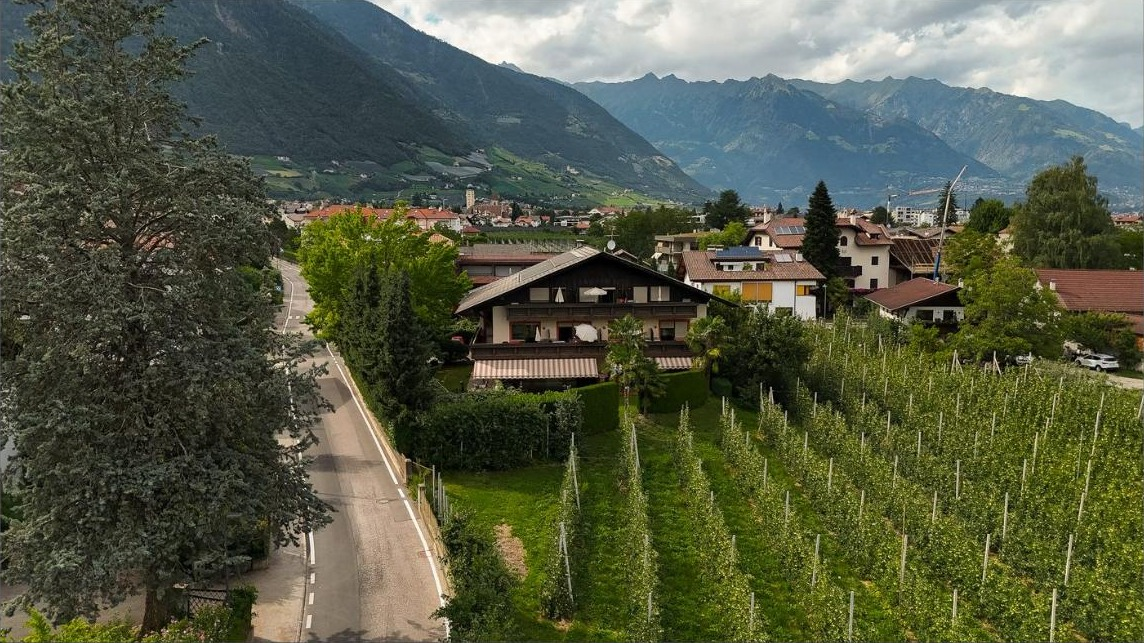
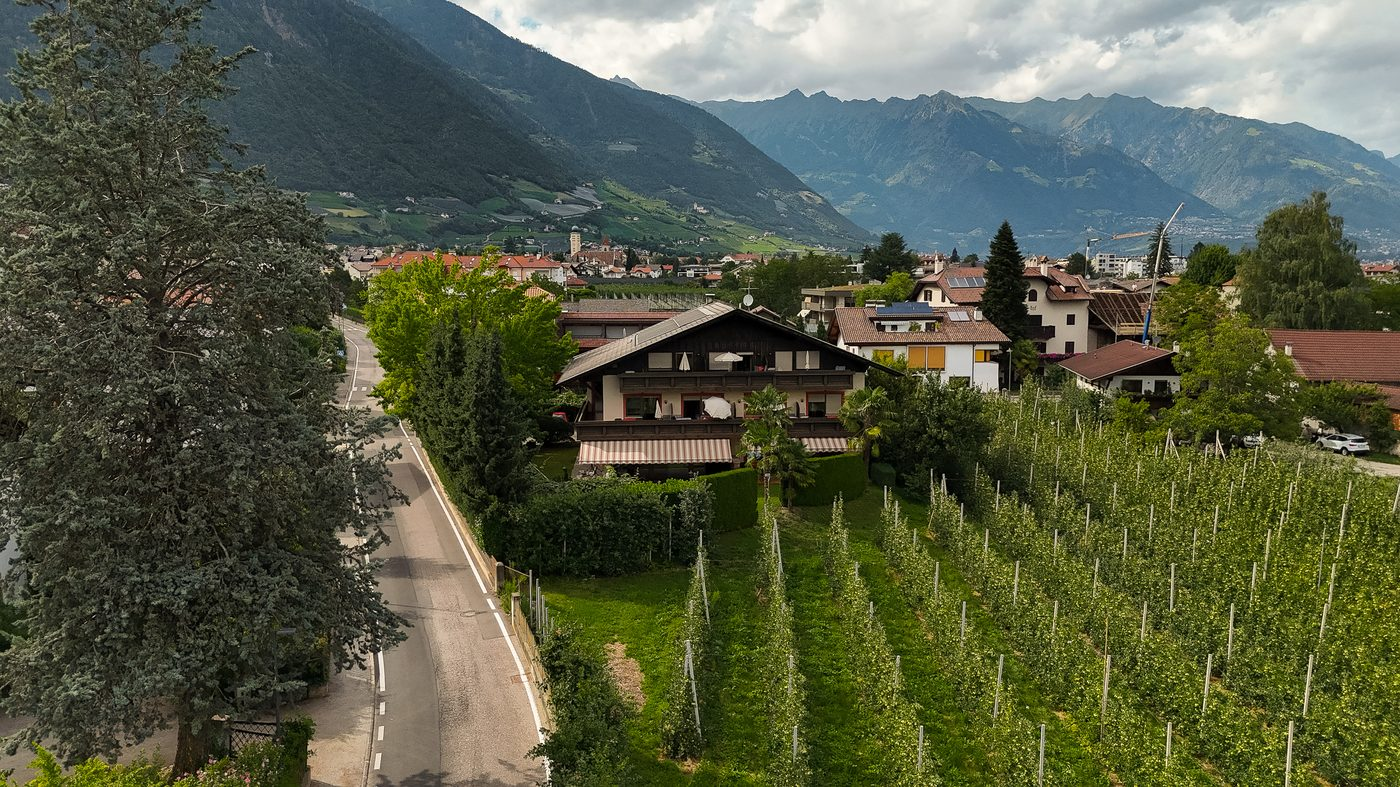
Preisrechner und aktuelle Bilder von main nachziehen
- Live-Preisvorschau im Buchungsformular (Saisonpreise 2026,
  Mindestaufenthalts-Warnung) war auf diesem Branch nie eingebaut -
  jetzt aus main uebernommen (js/main.js, buchungsanfrage.html, CSS)
- Aktuelle Bildversionen von main uebernommen: bearbeitetes
  Hero-Foto (Kran/Baustelle entfernt) sowie neu komprimierte
  pool/hiking/suedtirol/wine-Bilder

diff --git a/js/main.js b/js/main.js
@@ -42,6 +42,82 @@ revealEls.forEach(function (el) { el.classList.add("in-view"); });
 }
 }
 
+// Season price list 2026 (must stay in sync with the table on
+// buchungsanfrage.html). Prices are per apartment, per night.
+var PRICE_SEASONS = [
+{ start: "2026-02-21", end: "2026-03-27", era: 67, zra: 77 },
+{ start: "2026-03-28", end: "2026-04-10", era: 84, zra: 94 },
+{ start: "2026-04-11", end: "2026-04-30", era: 78, zra: 88 },
+{ start: "2026-05-01", end: "2026-05-22", era: 83, zra: 93 },
+{ start: "2026-05-23", end: "2026-06-05", era: 96, zra: 106 },
+{ start: "2026-06-06", end: "2026-07-10", era: 94, zra: 104 },
+{ start: "2026-07-11", end: "2026-08-21", era: 99, zra: 114 },
+{ start: "2026-08-22", end: "2026-09-11", era: 99, zra: 114 },
+{ start: "2026-09-12", end: "2026-10-02", era: 96, zra: 106 },
+{ start: "2026-10-03", end: "2026-10-16", era: 83, zra: 93 },
+{ start: "2026-10-17", end: "2026-11-07", era: 78, zra: 88 }
+];
+var ENDREINIGUNG = 47;
+var MIN_NIGHTS = 2;
+
+function priceForNight(dateStr) {
+for (var i = 0; i < PRICE_SEASONS.length; i++) {
+var s = PRICE_SEASONS[i];
+if (dateStr >= s.start && dateStr <= s.end) return s;
+}
+return null;
+}
+
+function toISODate(d) {
+return d.getFullYear() + "-" + String(d.getMonth() + 1).padStart(2, "0") + "-" + String(d.getDate()).padStart(2, "0");
+}
+
+function resetApartmentPrices() {
+var era = document.getElementById("price-era");
+var zra = document.getElementById("price-zra");
+var warning = document.getElementById("stay-warning");
+if (era) era.innerHTML = "ab 67 &euro;";
+if (zra) zra.innerHTML = "ab 77 &euro;";
+if (warning) warning.hidden = true;
+}
+
+function renderPricePreview(checkIn, checkOut) {
+var era = document.getElementById("price-era");
+var zra = document.getElementById("price-zra");
+var warning = document.getElementById("stay-warning");
+if (!era || !zra) return;
+
+var nights = Math.round((checkOut - checkIn) / 86400000);
+if (nights <= 0) { resetApartmentPrices(); if (warning) warning.hidden = true; return; }
+if (nights < MIN_NIGHTS) {
+era.innerHTML = "Preis auf Anfrage <span class=\"apartment-price-note\">wegen Mindestaufenthalt</span>";
+zra.innerHTML = "Preis auf Anfrage <span class=\"apartment-price-note\">wegen Mindestaufenthalt</span>";
+if (warning) warning.hidden = false;
+return;
+}
+if (warning) warning.hidden = true;
+
+var eraTotal = 0, zraTotal = 0, missing = false;
+var cursor = new Date(checkIn);
+for (var n = 0; n < nights; n++) {
+var season = priceForNight(toISODate(cursor));
+if (!season) { missing = true; break; }
+eraTotal += season.era;
+zraTotal += season.zra;
+cursor.setDate(cursor.getDate() + 1);
+}
+
+if (missing) {
+era.innerHTML = "Preis auf Anfrage <span class=\"apartment-price-note\">für diesen Zeitraum gerne auf Anfrage</span>";
+zra.innerHTML = "Preis auf Anfrage <span class=\"apartment-price-note\">für diesen Zeitraum gerne auf Anfrage</span>";
+return;
+}
+
+var nightsLabel = nights + " " + (nights === 1 ? "Nacht" : "Nächte");
+era.innerHTML = eraTotal + " &euro; <span class=\"apartment-price-note\">für " + nightsLabel + " + " + ENDREINIGUNG + " &euro; Endreinigung</span>";
+zra.innerHTML = zraTotal + " &euro; <span class=\"apartment-price-note\">für " + nightsLabel + " + " + ENDREINIGUNG + " &euro; Endreinigung</span>";
+}
+
 // Date-range calendar for the booking form (Flatpickr)
 var datesInput = document.getElementById("dates");
 if (datesInput && window.flatpickr) {
@@ -57,10 +133,17 @@ minDate: "today",
 showMonths: 2,
 locale: "de",
 altInputClass: "date-input",
+// No hard block on short stays anymore (Flatpickr's range-mode
+// click-sorting made a reliable lock too fragile). Instead
+// renderPricePreview() below shows "Preis auf Anfrage" plus a
+// visible warning for stays under MIN_NIGHTS.
 onChange: function (selectedDates, dateStr, instance) {
 if (selectedDates.length === 2) {
 var fmt = function (d) { return instance.formatDate(d, "d.m.Y"); };
 instance.altInput.value = fmt(selectedDates[0]) + " – " + fmt(selectedDates[1]);
+renderPricePreview(selectedDates[0], selectedDates[1]);
+} else {
+resetApartmentPrices();
 }
 }
 });

diff --git a/buchungsanfrage.html b/buchungsanfrage.html
@@ -50,24 +50,25 @@
 <path d="M16 3V6.5" stroke="currentColor" stroke-width="1.6" stroke-linecap="round"/>
 </svg>
 </div>
+<p id="stay-warning" class="stay-warning" hidden>&#9888; Mindestaufenthalt 2 Nächte &ndash; schreiben Sie uns trotzdem gerne.</p>
 </div>
 
 <div class="field full apartment-options">
 <label class="apartment-choice">
-<input type="checkbox" name="apartment" value="1-Raum-Apartment (67 EUR)">
+<input type="checkbox" name="apartment" value="1-Raum-Apartment (ab 67 EUR)">
 <span class="meta">
 <strong>Einraumappartment</strong><br>
 1&ndash;2 Personen | ca. 35 m&sup2;<br>
-67 &euro;
+<span id="price-era" class="apartment-price">ab 67 &euro;</span>
 </span>
 <img src="images/apartment-1raum.svg" alt="1-Raum-Apartment">
 </label>
 <label class="apartment-choice">
-<input type="checkbox" name="apartment" value="2-Raum-Apartment (Preis auf Anfrage)">
+<input type="checkbox" name="apartment" value="2-Raum-Apartment (ab 77 EUR)">
 <span class="meta">
 <strong>Zweiraumappartment</strong><br>
 2&ndash;4 Personen | ca. 48 m&sup2;<br>
-Preis auf Anfrage
+<span id="price-zra" class="apartment-price">ab 77 &euro;</span>
 </span>
 <img src="images/apartment-2raum.svg" alt="2-Raum-Apartment">
 </label>
@@ -128,6 +129,35 @@ Preis auf Anfrage
 <section style="background: var(--color-cream-2);">
 <div class="container legal-content reveal">
 <h1 class="section-title">Wichtige Informationen</h1>
+
+<div hidden>
+<h2>Preise 2026</h2>
+<p>Alle Preise pro Apartment und Nacht, für 2 Personen. Zusatzpersonen siehe unten.</p>
+<div class="price-table-wrap">
+<table class="price-table">
+<thead>
+<tr>
+<th>Zeitraum</th>
+<th>Einraumappartment</th>
+<th>Zweiraumappartment</th>
+</tr>
+</thead>
+<tbody>
+<tr><td>21.02. &ndash; 27.03.2026</td><td>67 &euro;</td><td>77 &euro;</td></tr>
+<tr><td>28.03. &ndash; 10.04.2026 <span class="price-tag">Ostern</span></td><td>84 &euro;</td><td>94 &euro;</td></tr>
+<tr><td>11.04. &ndash; 30.04.2026</td><td>78 &euro;</td><td>88 &euro;</td></tr>
+<tr><td>01.05. &ndash; 22.05.2026</td><td>83 &euro;</td><td>93 &euro;</td></tr>
+<tr><td>23.05. &ndash; 05.06.2026 <span class="price-tag">Pfingsten</span></td><td>96 &euro;</td><td>106 &euro;</td></tr>
+<tr><td>06.06. &ndash; 10.07.2026</td><td>94 &euro;</td><td>104 &euro;</td></tr>
+<tr><td>11.07. &ndash; 21.08.2026 <span class="price-tag">Hochsaison</span></td><td>99 &euro;</td><td>114 &euro;</td></tr>
+<tr><td>22.08. &ndash; 11.09.2026</td><td>99 &euro;</td><td>114 &euro;</td></tr>
+<tr><td>12.09. &ndash; 02.10.2026</td><td>96 &euro;</td><td>106 &euro;</td></tr>
+<tr><td>03.10. &ndash; 16.10.2026</td><td>83 &euro;</td><td>93 &euro;</td></tr>
+<tr><td>17.10. &ndash; 07.11.2026</td><td>78 &euro;</td><td>88 &euro;</td></tr>
+</tbody>
+</table>
+</div>
+</div>
 
 <h2>Inklusivleistungen</h2>
 <ul class="amenity-grid">

diff --git a/css/style.css b/css/style.css
@@ -564,6 +564,25 @@ box-shadow: 0 0 0 3px rgba(47,59,48,0.12);
 /* Date range picker (Flatpickr) */
 .date-field-wrap { position: relative; }
 
+.stay-warning {
+margin: 10px 0 0;
+padding: 10px 14px;
+background: #362d18;
+border: 1px solid #5c4d24;
+border-radius: 4px;
+color: #e8cf8a;
+font-size: 0.88rem;
+}
+
+.apartment-price { font-weight: 600; color: var(--color-text); }
+.apartment-price-note {
+display: block;
+font-weight: 400;
+font-size: 0.82rem;
+color: var(--color-muted);
+margin-top: 2px;
+}
+
 .date-input {
 width: 100%;
 padding: 16px 44px 16px 18px;
@@ -684,6 +703,25 @@ display: none;
 .legal-content h2 { font-family: var(--font-heading); font-weight: 400; margin-top: 40px; }
 .legal-content p { color: var(--color-muted); max-width: 800px; }
 .legal-content ul { max-width: 800px; }
+
+.price-table-wrap { max-width: 920px; overflow-x: auto; }
+.price-table { width: 100%; border-collapse: collapse; font-size: 0.95rem; }
+.price-table th, .price-table td { text-align: left; padding: 12px 16px; border-bottom: 1px solid var(--color-cream-2); white-space: nowrap; }
+.price-table th { font-family: var(--font-body); font-weight: 600; color: var(--color-text); border-bottom: 2px solid var(--color-dark); }
+.price-table td { color: var(--color-muted); }
+.price-table td:first-child { color: var(--color-text); }
+.price-table tbody tr:hover { background: rgba(255,255,255,0.03); }
+.price-tag {
+display: inline-block;
+margin-left: 8px;
+padding: 2px 10px;
+font-size: 0.72rem;
+letter-spacing: 0.06em;
+text-transform: uppercase;
+background: var(--color-tan);
+color: var(--color-cream);
+border-radius: 2px;
+}
 
 .placeholder-note {
 display: inline-block;
